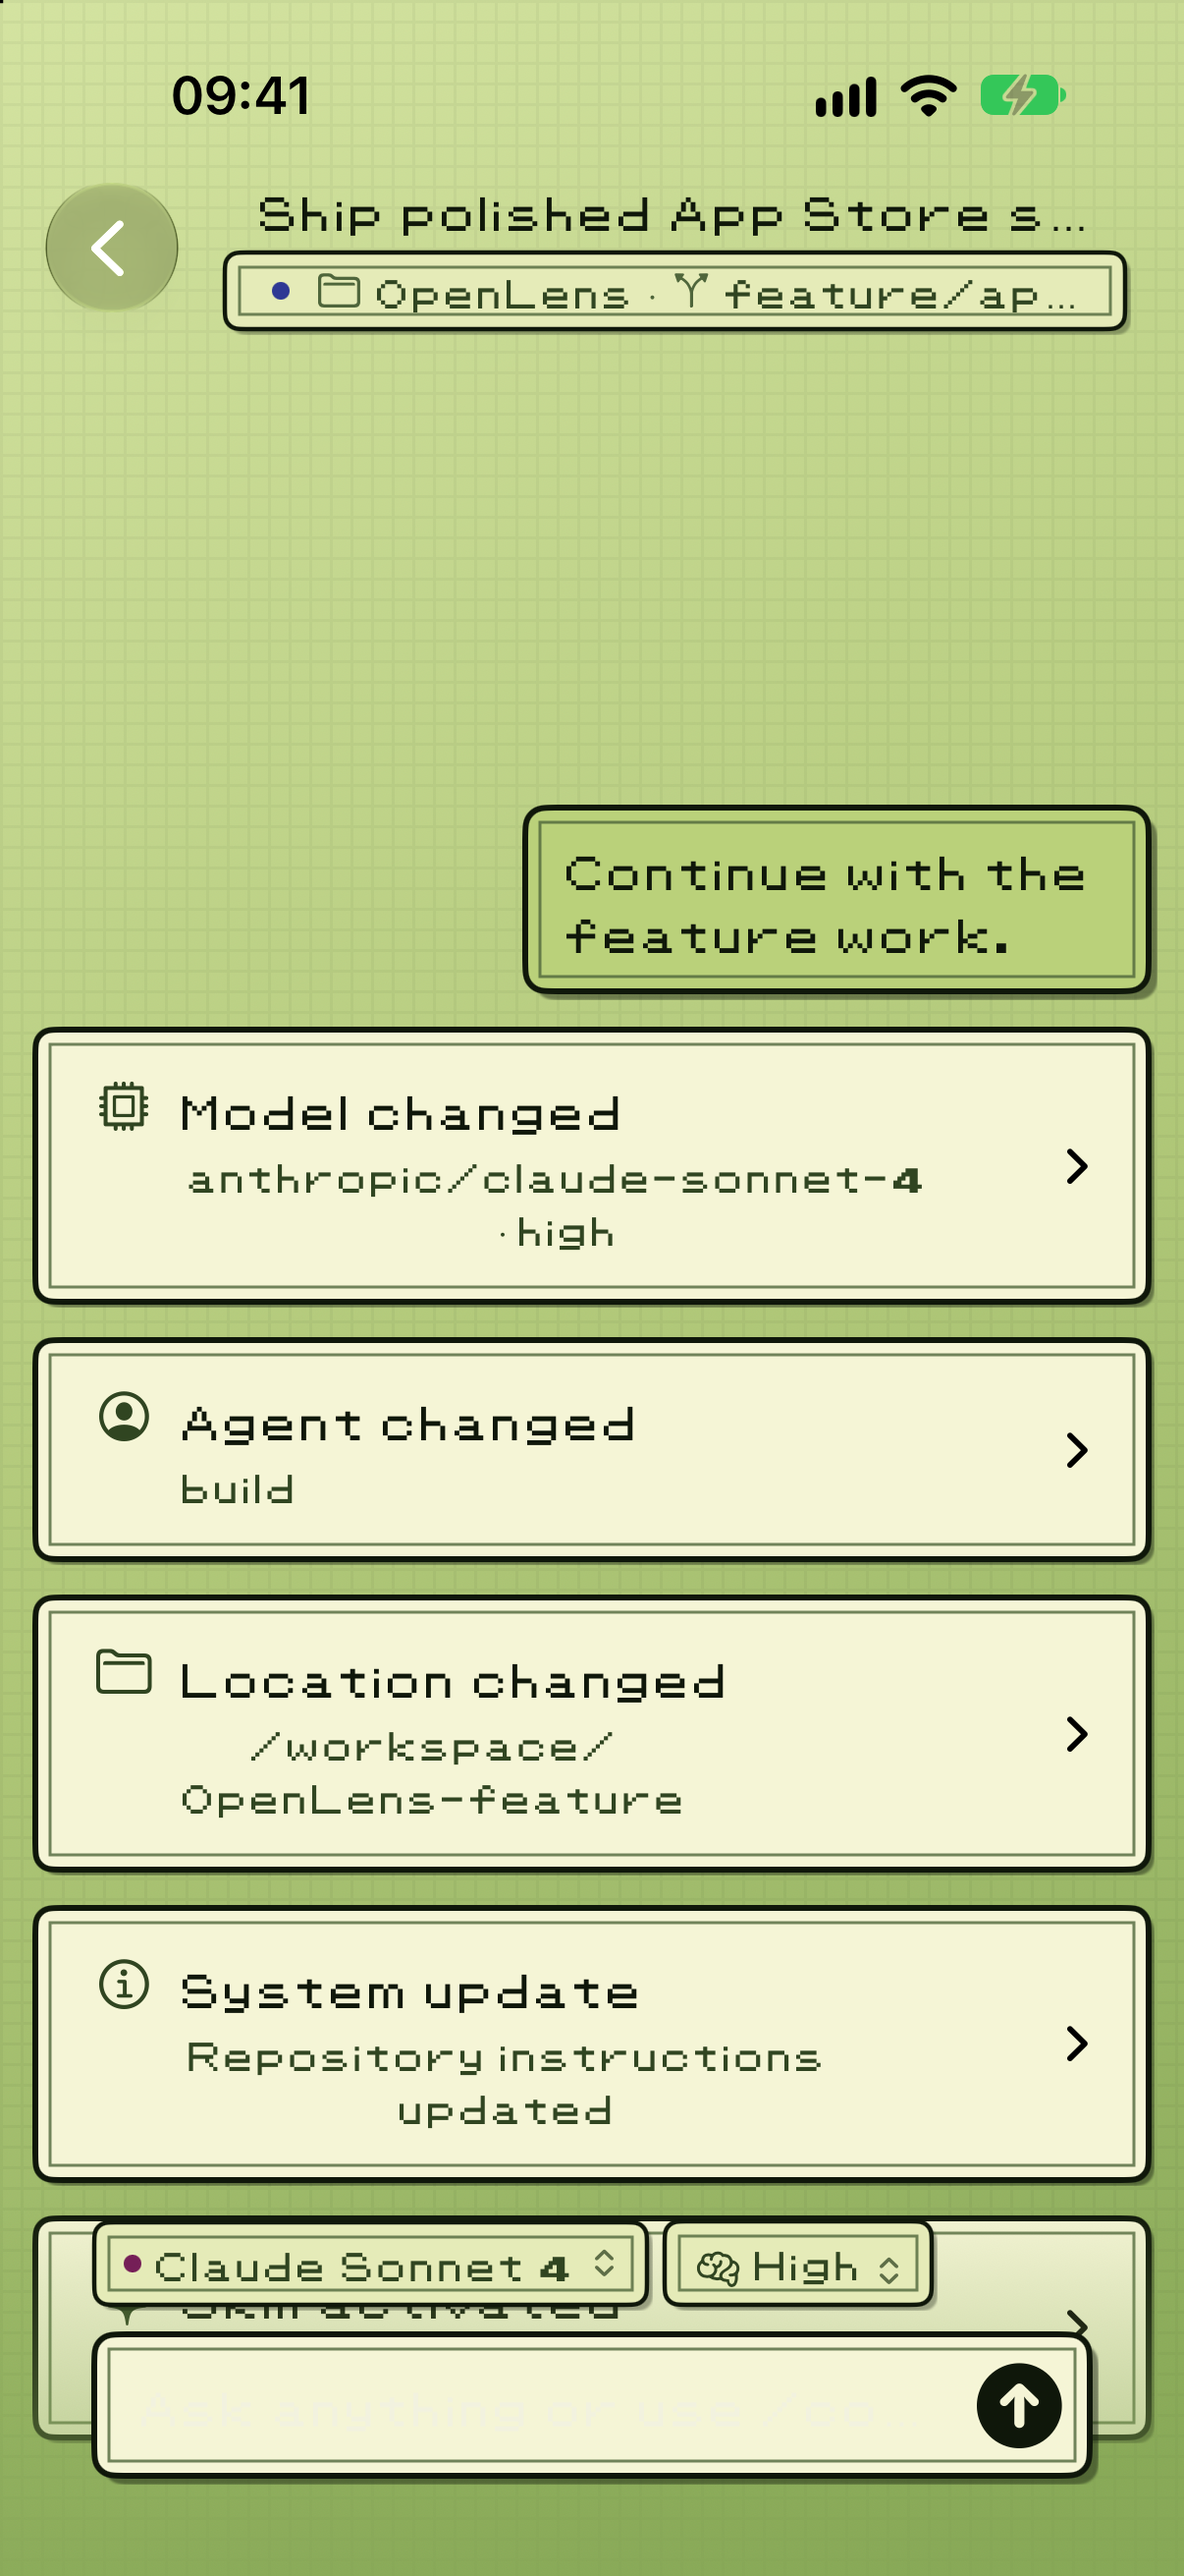
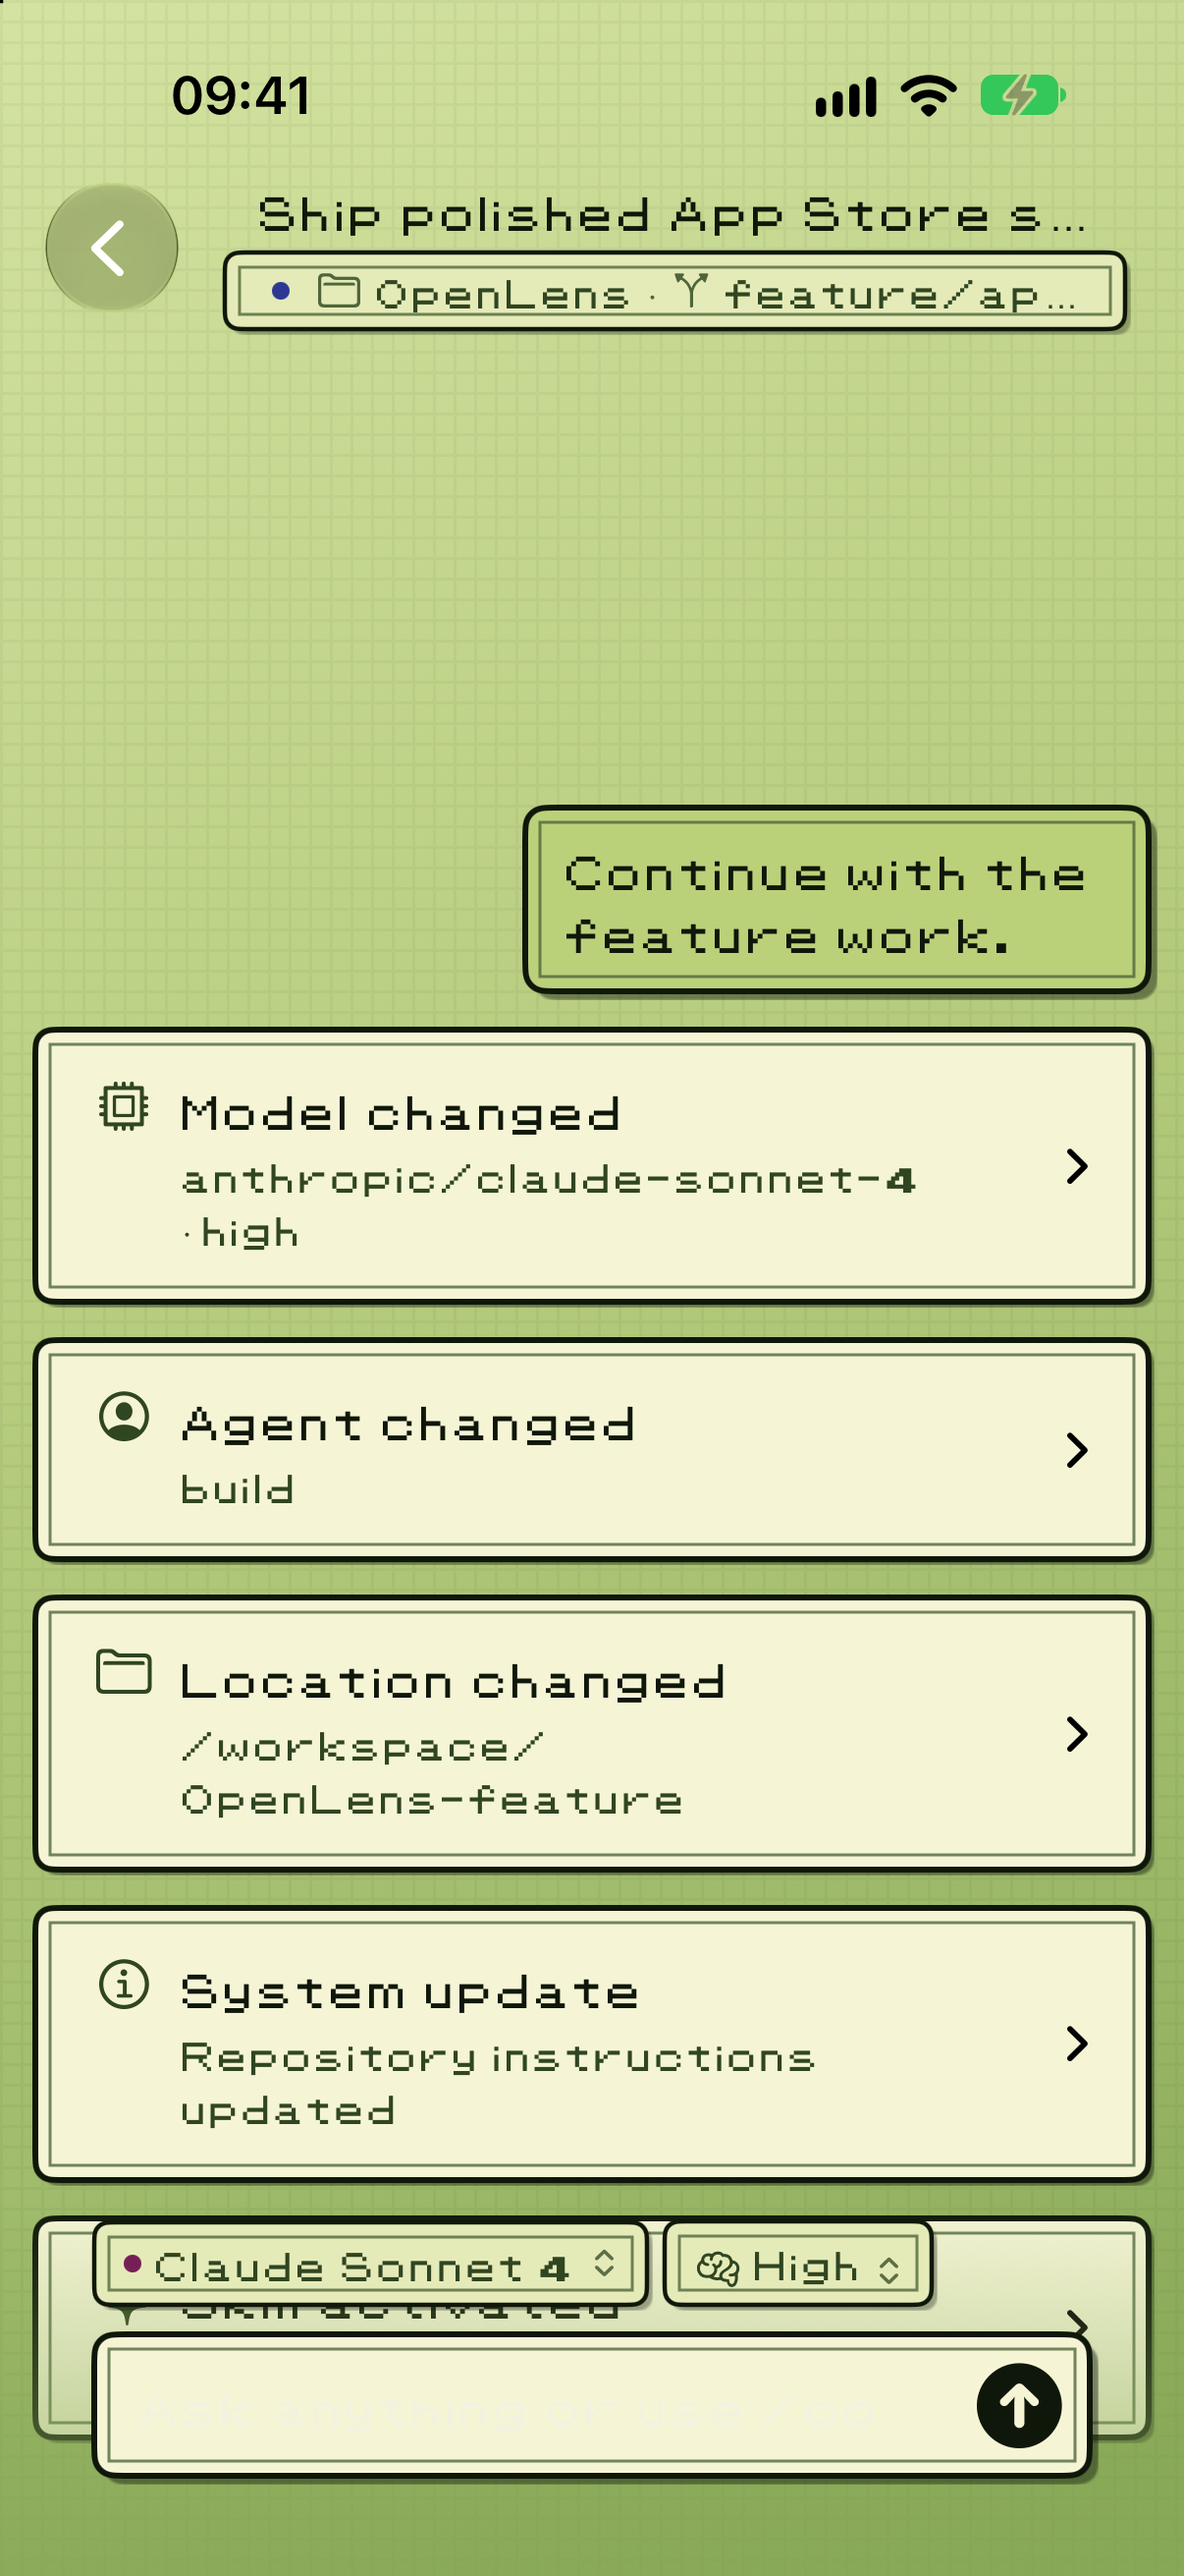
Align wrapped ticket 10 context labels

diff --git a/OpenLens/Services/ScreenshotFixtures.swift b/OpenLens/Services/ScreenshotFixtures.swift
@@ -20,12 +20,15 @@ enum ScreenshotFixtures {
     /// Decode the same tagged records as history, then use the production
     /// transcript projection. Variants fit all supported context kinds on screen.
     @MainActor static func applyContextTimeline(to chat: ChatClient) {
+        let shellCommand = ProcessInfo.processInfo.arguments.contains("SCREENSHOT_CONTEXT_WRAPPING_SUMMARY")
+            ? "swift test --filter V2ContextTimelineTests --configuration debug"
+            : "swift test"
         let shellText = scrollsToContextDetailsEnd
             ? String(repeating: "Check passed. ", count: 4_000)
             : #"All 24 checks passed.\n/workspace/OpenLens"#
         let records = showsContextResults ? #"""
         [
-          {"id":"fixture-shell","type":"shell","time":{"created":1,"completed":2},"shellID":"shell_checks","command":"swift test","status":"completed","exit":0,"output":{"text":"\#(shellText)","truncated":true}},
+          {"id":"fixture-shell","type":"shell","time":{"created":1,"completed":2},"shellID":"shell_checks","command":"\#(shellCommand)","status":"completed","exit":0,"output":{"text":"\#(shellText)","truncated":true}},
           {"id":"fixture-compaction","type":"compaction","time":{"created":3},"status":"completed","reason":"manual","summary":"The feature is implemented and verified.","recent":"Keep the current branch for review."},
           {"id":"fixture-reply","type":"assistant","time":{"created":4},"content":[{"type":"text","text":"The checks passed. Ready for review."}]},
           {"id":"fixture-idle","type":"idle","time":{"created":5},"outcome":"succeeded"}

diff --git a/OpenLens/Views/Components/SessionContextTimelineRow.swift b/OpenLens/Views/Components/SessionContextTimelineRow.swift
@@ -55,10 +55,12 @@ struct SessionContextTimelineRow: View {
                 Text(entry.title)
                     .font(isRetroChat ? RetroChatStyle.headerFont : .subheadline.weight(.medium))
                     .foregroundStyle(ink)
+                    .multilineTextAlignment(.leading)
                 if !entry.summary.isEmpty {
                     Text(entry.summary)
                         .font(isRetroChat ? RetroChatStyle.smallFont : .caption)
                         .foregroundStyle(secondaryInk)
+                        .multilineTextAlignment(.leading)
                         .lineLimit(isExpanded ? nil : 2)
                 }
             }

diff --git a/.scratch/opencode-v2-completion/issues/10-preserve-useful-v2-context-changes-in-the-timeline.md b/.scratch/opencode-v2-completion/issues/10-preserve-useful-v2-context-changes-in-the-timeline.md
@@ -40,3 +40,12 @@
 - Final repair verification: ran `/Users/example/Developer/afk-agent/runs/20261009-1237/bin/verify` after all source and fixture changes. **VERIFY RESULT: PASS** — **597 tests in 60 suites passed on 2026-10-09**, with no failures or skips, on dedicated AFK simulator `C25B01FF-5F58-4572-BD98-548790F43A2C`. Saved log/result bundle: `build/afk-logs/20261009-131446-tests-1.log` and `build/afk-logs/20261009-131446-tests-1.xcresult`. This supersedes the earlier 590-test completion and intermediate repair passes. `git diff --check` passed. The context model, row, screenshot fixture and changed test suites have no compiler warnings in this final build; unrelated existing warnings remain.
 - Extended fixtures to use multi-line structured shell output and a large output variant. Captured and visually inspected the final verified build: [plain shell output and truncation note in light mode](../screenshots/10-context-details.png), [standard dark-mode details](../screenshots/10-context-details-dark.png), [retro dark-mode results and disclosures](../screenshots/10-context-retro-dark.png), [retro dark-mode context changes](../screenshots/10-context-retro-changes-dark.png), and [the bounded preview's shortening and server truncation notices](../screenshots/10-context-shortened-details.png). All captures retain the hidden chat tab bar. Reproduce with `SCREENSHOT_MODE SCREENSHOT_TAB=chat SCREENSHOT_CHAT_SESSION` plus `SCREENSHOT_CONTEXT_RESULTS SCREENSHOT_CONTEXT_DETAILS` or `SCREENSHOT_CONTEXT_CHANGES`. Add `OPENLENS_RETRO_CHAT=1` for retro; pass the AFK screenshot wrapper `--appearance dark` before `--` for dark appearance. The large-output capture adds `SCREENSHOT_CONTEXT_LONG_DETAILS`; only that screenshot variant starts at the timeline end so the actual notices are visible. Initial captures exposed pale native disclosure arrows, corrected by a local light-control environment on the fixed pale retro panel before final verification and recapture.
 - All five review findings are resolved. No live V2 server/two-client run, physical-device run, Dynamic Type screenshot or manual iPad navigation was performed; canonical transport/native-event tests and dedicated simulator captures verify the repairs. Source field assumptions and ordering decisions are recorded above. Ticket remains done and branch remains `afk/20261009-1237`.
+
+
+**Additional review correction — wrapped labels (2026-10-09):**
+
+- **Finding — centred wrapped titles and summaries:** added `.multilineTextAlignment(.leading)` to both title and summary `Text` views in `SessionContextTimelineRow`'s shared label, following `QuestionView`'s existing button-label convention. The reviewed retro capture provided the failing visual baseline: the model variant, path and instruction summary continuation lines were centred. Those continuation lines now begin at the same leading edge as their first line. This also applies inside standard-mode disclosures and to labels without details.
+- **Decision and test coverage:** keep the correction on both text views so the native disclosure button's default text alignment cannot override the row's intent. Existing fonts, disclosure state, summary line limits and navigation remain intact. Added `SCREENSHOT_CONTEXT_WRAPPING_SUMMARY` to the existing shell-result fixture, using a long command that wraps at the standard text size. No new unit test was added for native text alignment; the simulator captures verify actual layout, and the full existing Swift Testing suite checks the earlier five repairs and transcript behaviour.
+- Ran `/Users/example/Developer/afk-agent/runs/20261009-1237/bin/verify` after both source and fixture changes. **VERIFY RESULT: PASS** — **597 tests in 60 suites passed on 2026-10-09**, with no failures or skips, on dedicated AFK simulator `C25B01FF-5F58-4572-BD98-548790F43A2C`. Saved log/result bundle: `build/afk-logs/20261009-132132-tests-1.log` and `build/afk-logs/20261009-132132-tests-1.xcresult`. This supersedes the previous repair verification for the current source. `git diff --check` passed; the changed row and fixture have no compiler warnings in this build.
+- Captured and visually inspected the verified build: [recaptured retro dark-mode context changes](../screenshots/10-context-retro-changes-dark.png) and [standard-mode wrapping shell summary](../screenshots/10-context-wrapping-summary.png). The former confirms leading alignment for wrapped model, location and system summaries; the latter confirms leading alignment for both command lines in the collapsed standard disclosure. Both retain the hidden chat tab bar. Reproduce with `SCREENSHOT_MODE SCREENSHOT_TAB=chat SCREENSHOT_CHAT_SESSION` plus `SCREENSHOT_CONTEXT_CHANGES OPENLENS_RETRO_CHAT=1` (wrapper `--appearance dark` before `--`), or `SCREENSHOT_CONTEXT_RESULTS SCREENSHOT_CONTEXT_WRAPPING_SUMMARY` in light appearance. Enlarged Dynamic Type and iPad captures remain unverified.
+- The new display finding and all five earlier findings are resolved. Ticket remains done and branch remains `afk/20261009-1237`.
